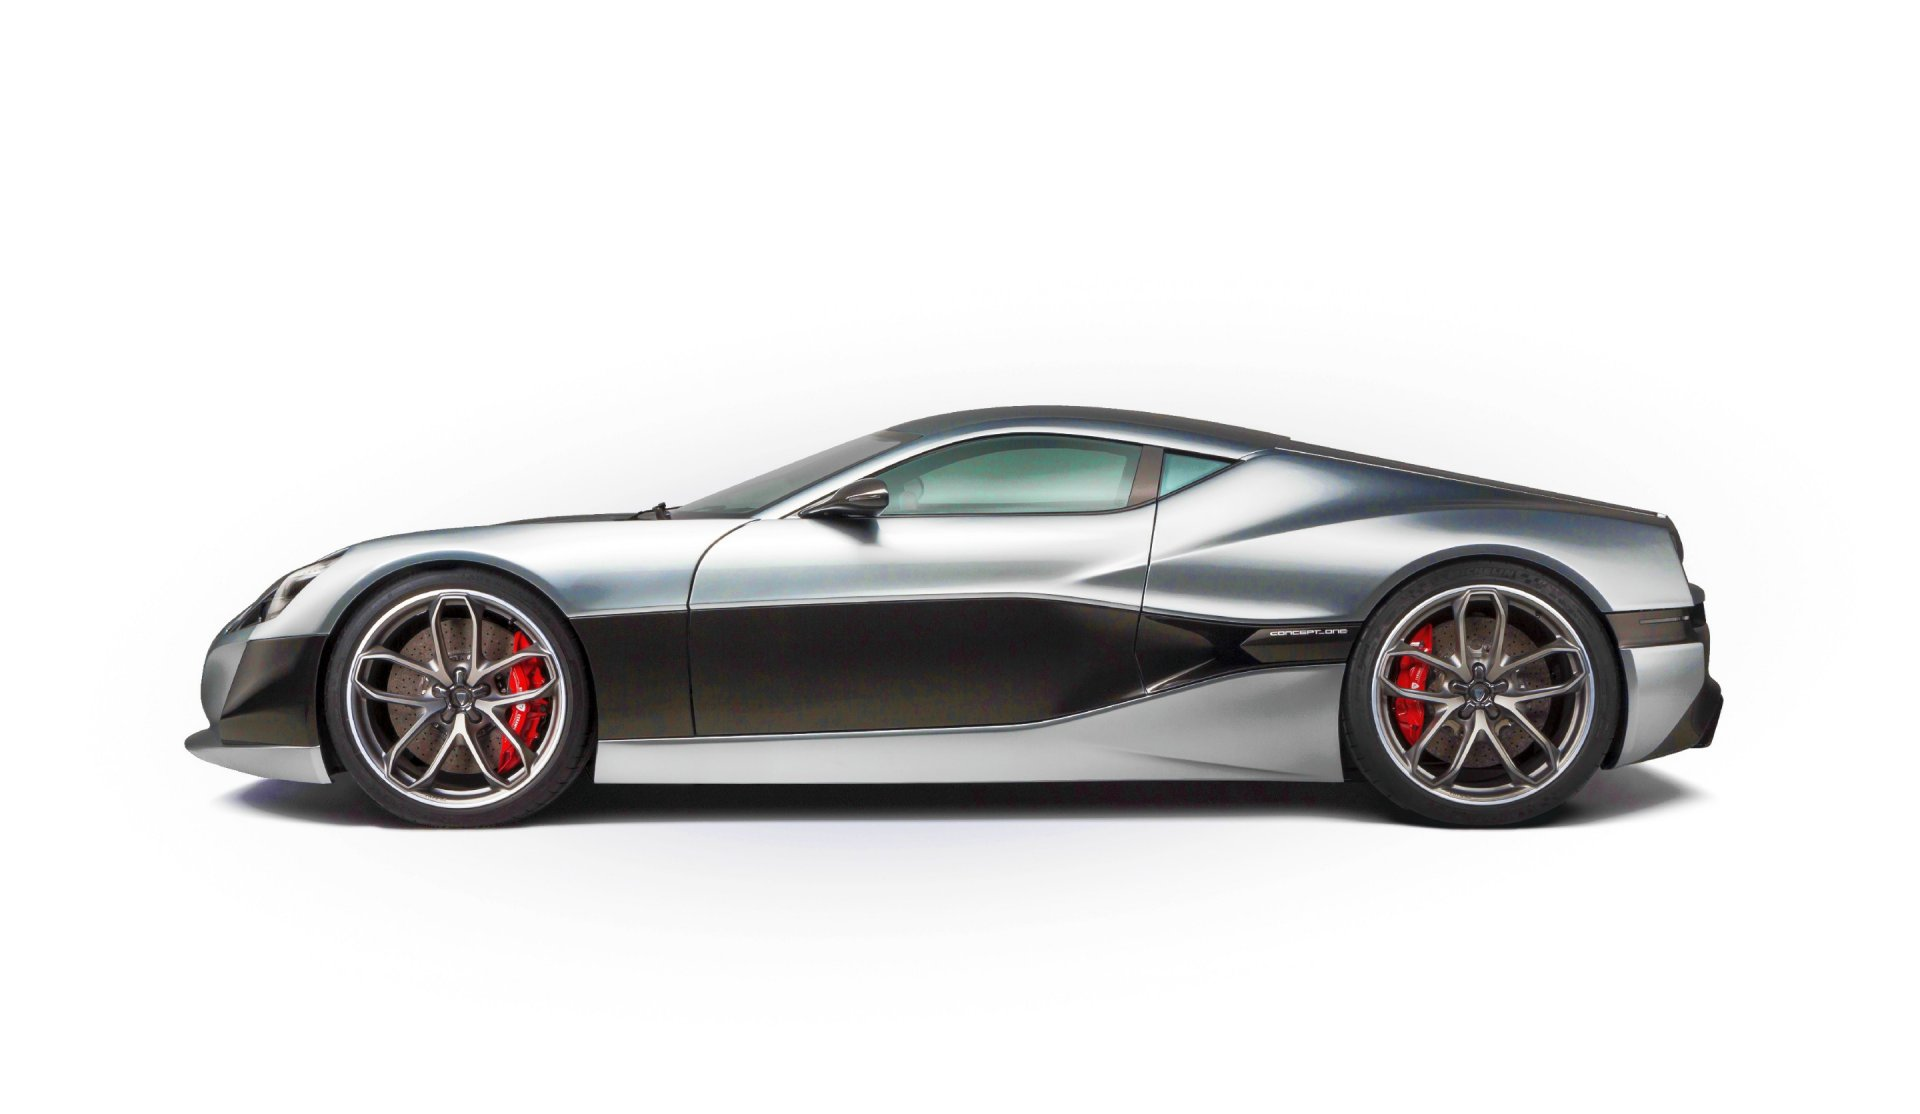
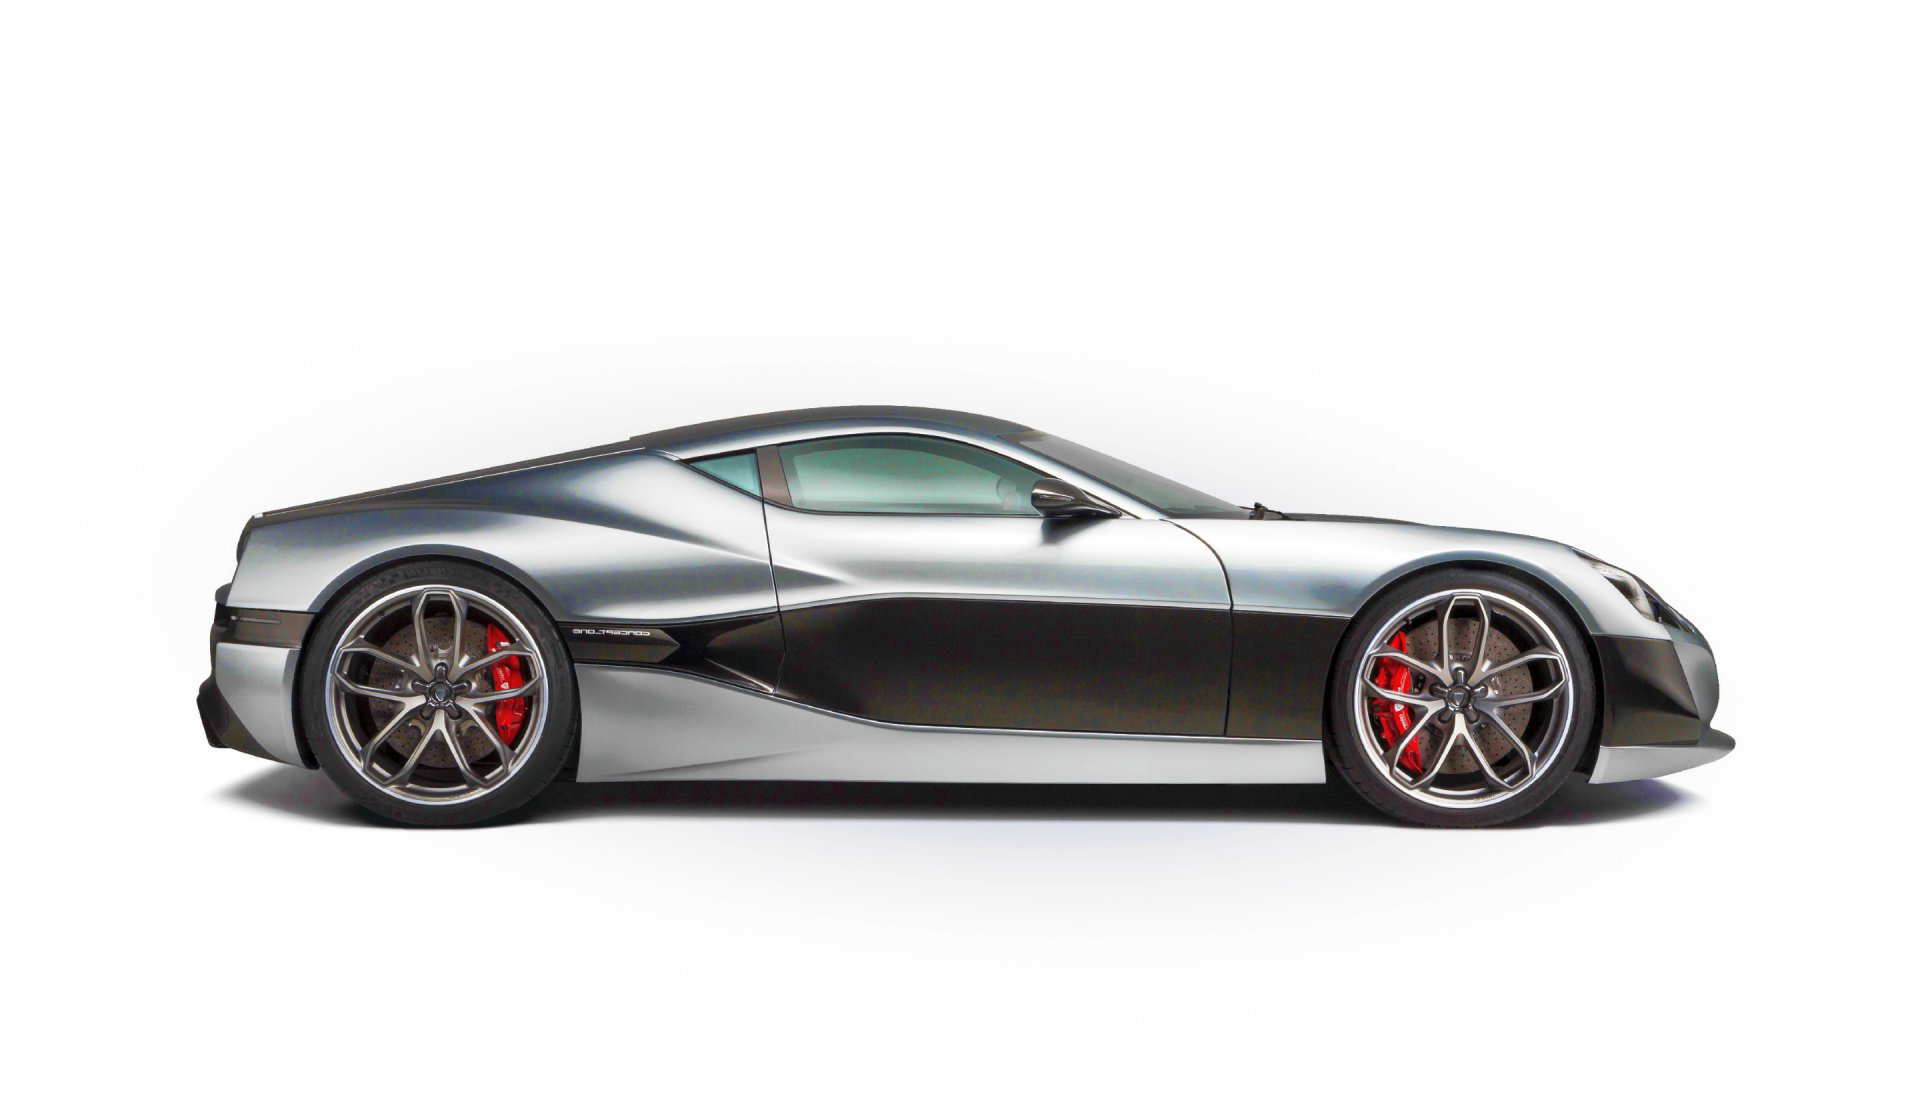
wheels

Changed region(s): [[0.0938, 0.3662, 0.9062, 0.763]]

diff --git a/src/App.css b/src/App.css
@@ -61,8 +61,8 @@
   margin: 100px 0 150px;
 }
 .car-wheel {
-  height: 82px;
-  width: 82px;
+  height: 81px;
+  width: 81px;
   bottom: 0;
   position: absolute;
   background-repeat: no-repeat;
@@ -70,10 +70,10 @@
   background-size: cover;
 }
 .car-wheel--front {
-  left: 53px;
+  left: 48px;
 }
 .car-wheel--rear {
-  right: 47px;
+  right: 53px;
 }
 .car-wheel--19 {
   background-image: url(./assets/wheel-19.png);
@@ -92,34 +92,34 @@
 
 @keyframes infinite-spinning {
   from {
-    -webkit-transform: rotate(0deg);
-    -moz-transform: rotate(0deg);
-    -ms-transform: rotate(0deg);
-    -o-transform: rotate(0deg);
-    transform: rotate(0deg);
-  }
-  to {
     -webkit-transform: rotate(360deg);
     -moz-transform: rotate(360deg);
     -ms-transform: rotate(360deg);
     -o-transform: rotate(360deg);
     transform: rotate(360deg);
+  }
+  to {
+    -webkit-transform: rotate(0deg);
+    -moz-transform: rotate(0deg);
+    -ms-transform: rotate(0deg);
+    -o-transform: rotate(0deg);
+    transform: rotate(0deg);
   }
 }
 @-webkit-keyframes infinite-spinning {
   from {
-    -webkit-transform: rotate(0deg);
-    -moz-transform: rotate(0deg);
-    -ms-transform: rotate(0deg);
-    -o-transform: rotate(0deg);
-    transform: rotate(0deg);
-  }
-  to {
     -webkit-transform: rotate(360deg);
     -moz-transform: rotate(360deg);
     -ms-transform: rotate(360deg);
     -o-transform: rotate(360deg);
     transform: rotate(360deg);
+  }
+  to {
+    -webkit-transform: rotate(0deg);
+    -moz-transform: rotate(0deg);
+    -ms-transform: rotate(0deg);
+    -o-transform: rotate(0deg);
+    transform: rotate(0deg);
   }
 }
 
